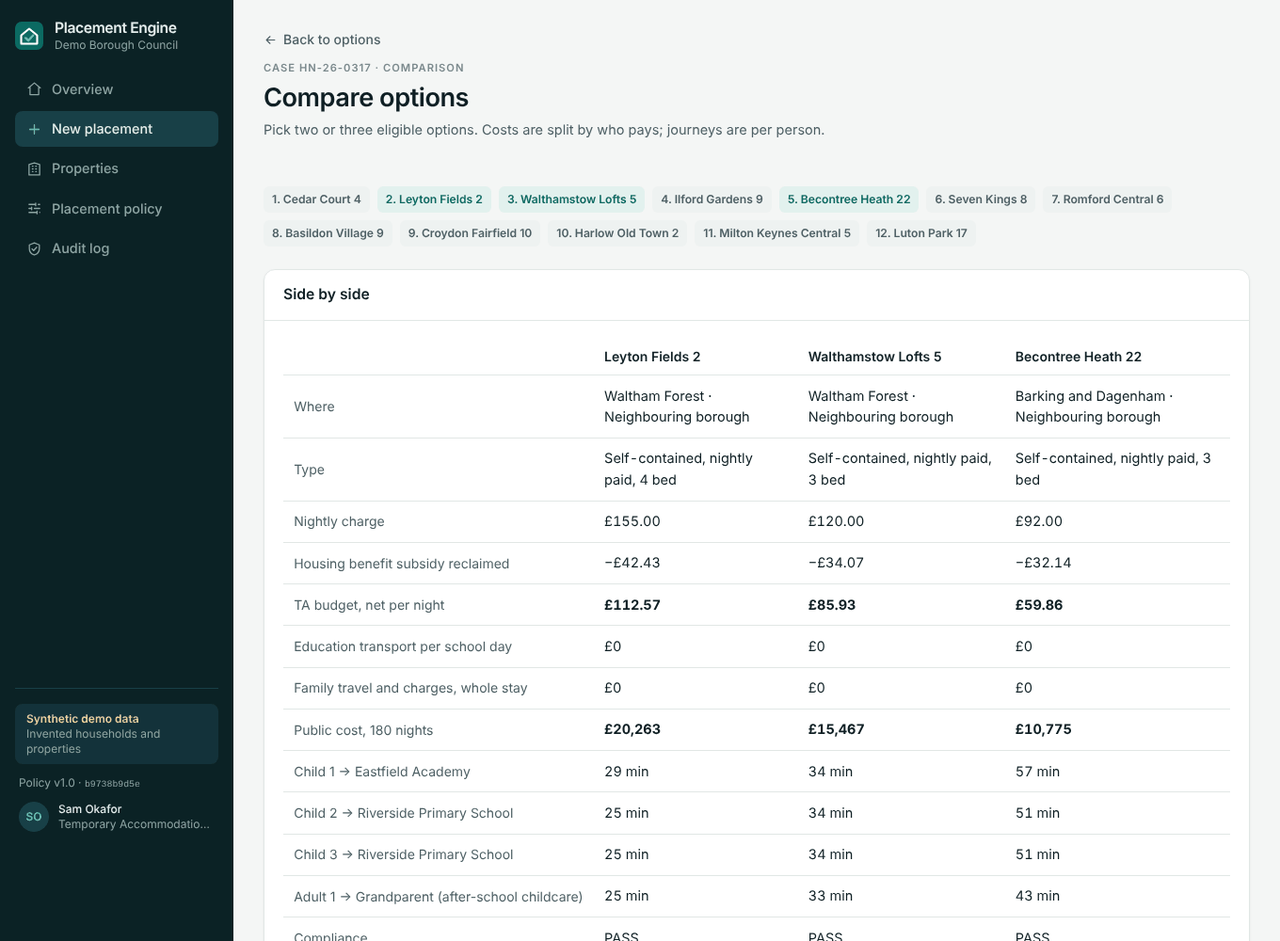
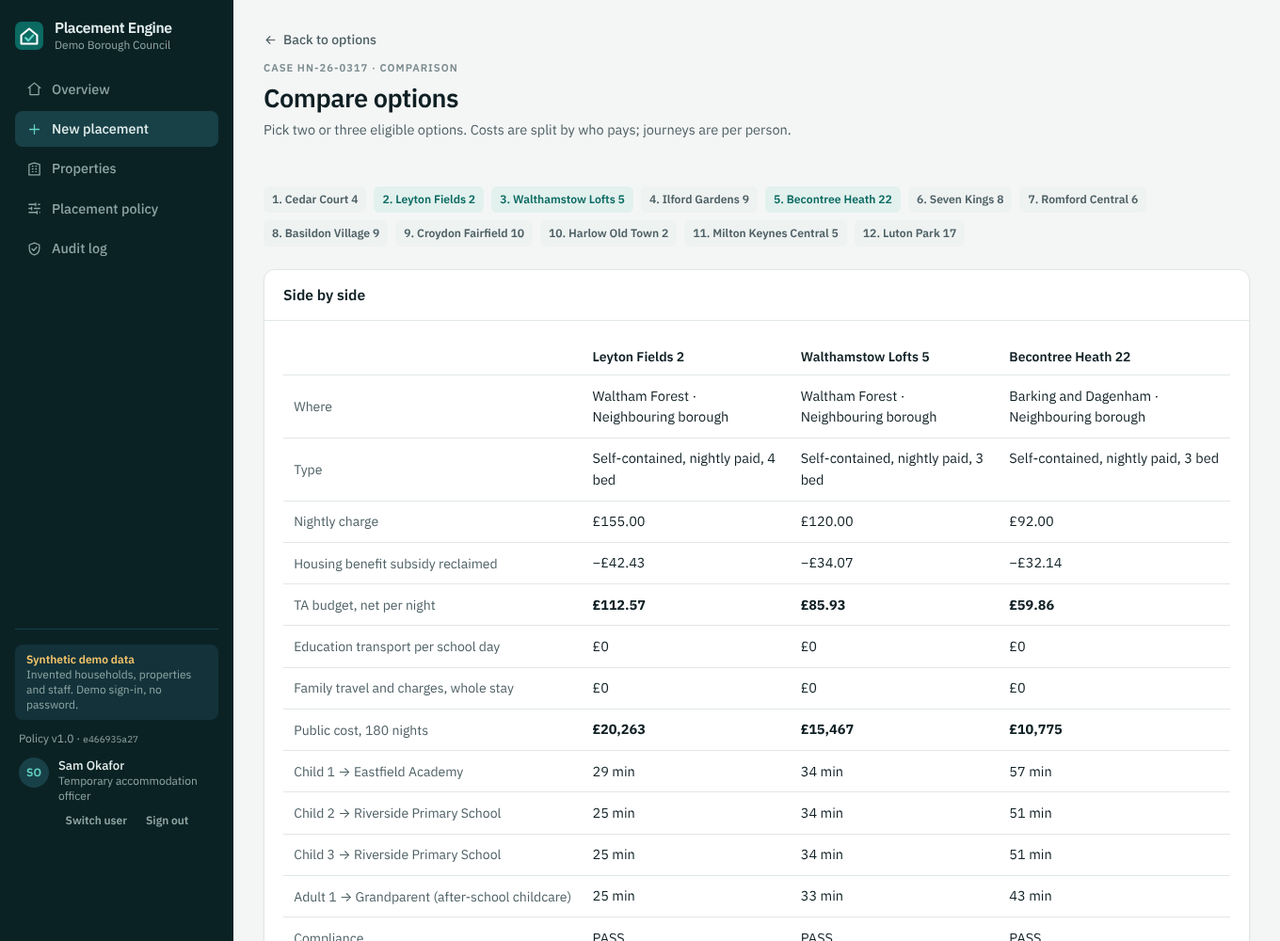
Docs for phase 1: validation, access needs, consent, sign-in and permissions, schema 2
HOW-IT-DECIDES gains the household checks, access needs per person, consent,
the chain union and the permission table. ARCHITECTURE describes the new
modules, the command layer and how old data is kept. PILOT-READINESS adds real
sign-in, server-side enforcement, the staff directory and the legal checks for
consent and access questions. README and its screenshots show the new flows.

The spec records the phase 1 choices it left open: session per tab, demo-only
permissions, the household access panel, consent only when a placement is
made, the 7-day consent follow-up, and the new storage key.

Claude-Session: https://claude.ai/code/session_01HVuUZyqdwB3CpnaYjuLiQZ

diff --git a/README.md b/README.md
@@ -12,7 +12,7 @@ The officer accepts the recommendation or chooses another option with a reason. 
 
 ![Placement options for a family of four: recommendation, map and cost against suitability](docs/images/results.png)
 
-> **Status: MVP on synthetic data.** Every household, property, supplier and place is invented. Journey times are a labelled estimate and the housing benefit subsidy figures are illustrative. A solicitor should check the legal references before any pilot ([pilot readiness](docs/PILOT-READINESS.md)).
+> **Status: MVP on synthetic data.** Every household, property, supplier, place and member of staff is invented. Sign-in is a labelled demo with no password: you choose who to be. Journey times are a labelled estimate and the housing benefit subsidy figures are illustrative. A solicitor should check the legal references before any pilot ([pilot readiness](docs/PILOT-READINESS.md)).
 
 ## Why
 
@@ -29,16 +29,18 @@ Since 5 February 2026, the automated-decision rules also require meaningful huma
 
 ## What it does
 
-|                                    |                                                                                                                                                                                                                               |
-| ---------------------------------- | ----------------------------------------------------------------------------------------------------------------------------------------------------------------------------------------------------------------------------- |
-| **Checks every property**          | Availability, size, access, safety certificates, approved supplier, safeguarding zones, affordability, and the rule against shared rooms for families. Each check cites its legal basis.                                      |
-| **Ranks what passes**              | A suitability score from factors the council weights: school, work, treatment and care journeys; location; facilities; condition; whether the property covers the whole stay. Each factor maps to the 2012 Suitability Order. |
-| **Shows the real cost**            | The nightly charge minus the housing benefit subsidy the council can reclaim, plus any cost to other budgets (education transport) and to the family. Cost sits beside suitability, never inside it.                          |
-| **Explains itself**                | Plain-English reasons, a map, cost against suitability, side-by-side comparison, and a check that the pick still holds if the policy weights move 20% either way. No AI computes or invents anything.                         |
-| **Records the officer's decision** | Accept, or override with a reason code and the officer's own words. What they reviewed first is logged.                                                                                                                       |
-| **Seals the evidence**             | Canonical JSON snapshot in a SHA-256 hash chain; editing any past record breaks the chain. Audit pack as a page and a PDF.                                                                                                    |
-| **Starts the statutory clocks**    | s208 notice to the receiving council, the 6-week limit for families in shared accommodation, s213AA school/GP notification, s202 review window, with draft notices.                                                           |
-| **Keeps policy versioned**         | The council's weights and rules are published as signed, hashed versions with an equality note; every decision records the version it used.                                                                                   |
+|                                    |                                                                                                                                                                                                                                         |
+| ---------------------------------- | --------------------------------------------------------------------------------------------------------------------------------------------------------------------------------------------------------------------------------------- |
+| **Checks every property**          | Availability, size, access, safety certificates, approved supplier, safeguarding zones, affordability, and the rule against shared rooms for families. Each check cites its legal basis.                                                |
+| **Ranks what passes**              | A suitability score from factors the council weights: school, work, treatment and care journeys; location; facilities; condition; whether the property covers the whole stay. Each factor maps to the 2012 Suitability Order.           |
+| **Shows the real cost**            | The nightly charge minus the housing benefit subsidy the council can reclaim, plus any cost to other budgets (education transport) and to the family. Cost sits beside suitability, never inside it.                                    |
+| **Explains itself**                | Plain-English reasons, a map, cost against suitability, side-by-side comparison, and a check that the pick still holds if the policy weights move 20% either way. No AI computes or invents anything.                                   |
+| **Checks what is entered**         | Missing or impossible details stop the search with a summary that links to each field. A wheelchair user or a disability opens explicit access questions per person; every "yes" is checked, by name.                                   |
+| **Records the officer's decision** | Accept, or override with a reason code and the officer's own words. The signed-in officer is recorded, never a typed name. Consent to notify school and health services is recorded, never assumed. What they reviewed first is logged. |
+| **Seals the evidence**             | Canonical JSON snapshot in a SHA-256 hash chain; editing any past record breaks the chain. Later facts (a consent answer) are new records. Audit pack as a page and a PDF.                                                              |
+| **Knows who may do what**          | Officers search and decide; managers will approve exceptions; only the head of service (or admin) publishes policy; the auditor reads everything and changes nothing. Enforced in the store, not only by hiding buttons.                |
+| **Starts the statutory clocks**    | s208 notice to the receiving council, the 6-week limit for families in shared accommodation, s213AA school/GP notification, s202 review window, with draft notices.                                                                     |
+| **Keeps policy versioned**         | The council's weights and rules are published as signed, hashed versions with an equality note; every decision records the version it used.                                                                                             |
 
 <table>
   <tr>
@@ -49,6 +51,14 @@ Since 5 February 2026, the automated-decision rules also require meaningful huma
     <td><img src="docs/images/audit-pack.png" alt="Sealed audit pack" /></td>
     <td><img src="docs/images/results-dark.png" alt="Results in dark mode" /></td>
   </tr>
+  <tr>
+    <td><img src="docs/images/access-needs.png" alt="Access needs asked per person, with an error summary linking to each unanswered question" /></td>
+    <td><img src="docs/images/consent.png" alt="Decision record with consent recorded later as a new sealed record" /></td>
+  </tr>
+  <tr>
+    <td><img src="docs/images/sign-in.png" alt="Demo sign-in with synthetic staff and a plain warning that it is not security" /></td>
+    <td><img src="docs/images/compare.png" alt="Side-by-side comparison of options" /></td>
+  </tr>
 </table>
 
 ## Try it
@@ -58,28 +68,30 @@ npm install
 npm run dev            # http://localhost:5173
 ```
 
-Start from one of the five example households on the overview:
+Sign in as one of the synthetic staff (an officer to search and decide; switch to the manager or the auditor from the rail to see what changes), then start from one of the five example households on the overview:
 
-| Example                                         | What it shows                                                                                                         |
-| ----------------------------------------------- | --------------------------------------------------------------------------------------------------------------------- |
-| Parent and three children, needed tonight       | The concept brief's example. The cheaper property 51 minutes from school loses on suitability.                        |
-| Single adult on dialysis, working               | Priority flags raise the treatment and work weights; the cost tie-break picks between two near-equal options.         |
-| Wheelchair user and two children, fleeing abuse | Hard access rules, an assistance dog and a safeguarding exclusion zone. Only two properties pass.                     |
-| Two adults and five children, exam year         | Scarce four-bedroom supply. The cheap Luton unit would add about £33k of special-school taxi to the education budget. |
-| Pregnant, alone, out of hours                   | Nothing self-contained tonight: shared rooms only as a last resort, with the six-week clock and remedy risk.          |
+| Example                                         | What it shows                                                                                                          |
+| ----------------------------------------------- | ---------------------------------------------------------------------------------------------------------------------- |
+| Parent and three children, needed tonight       | The concept brief's example. The cheaper property 51 minutes from school loses on suitability.                         |
+| Single adult on dialysis, working               | Priority flags raise the treatment and work weights; the cost tie-break picks between two near-equal options.          |
+| Wheelchair user and two children, fleeing abuse | Access answers for the wheelchair user, an assistance dog and a safeguarding exclusion zone. Only two properties pass. |
+| Two adults and five children, exam year         | Scarce four-bedroom supply. The cheap Luton unit would add about £33k of special-school taxi to the education budget.  |
+| Pregnant, alone, out of hours                   | Nothing self-contained tonight: shared rooms only as a last resort, with the six-week clock and remedy risk.           |
 
-Then record a decision, open the audit pack, and try **Audit log → Edit record #1 behind the system's back** to see tamper detection.
+Then record a decision (with the parent's consent answer), open the audit pack, and try **Audit log → Edit record #1 behind the system's back** to see tamper detection. To see the checks, open **New placement** and press **Find placements** on the blank form, or tick **Wheelchair user** on someone.
+
+Data saved by the earlier version in this browser is carried over: its sealed records still verify and show as recorded under the earlier version.
 
 ## Development
 
-| Command               | Does                                                                                                              |
-| --------------------- | ----------------------------------------------------------------------------------------------------------------- |
-| `npm run dev`         | Local dev server                                                                                                  |
-| `npm test`            | Engine, scenario, audit and CSV tests (Vitest)                                                                    |
-| `npm run check`       | Typecheck + tests + formatting (what CI runs)                                                                     |
-| `npm run build`       | Production build (`dist/`)                                                                                        |
-| `npm run build:demo`  | One self-contained HTML file (`dist-demo/index.html`) for a shareable click-through                               |
-| `npm run walkthrough` | Clicks through every screen in headless Chromium and saves screenshots to `screenshots/` (run `build:demo` first) |
+| Command               | Does                                                                                                                                                                 |
+| --------------------- | -------------------------------------------------------------------------------------------------------------------------------------------------------------------- |
+| `npm run dev`         | Local dev server                                                                                                                                                     |
+| `npm test`            | Engine, scenario, validation, access, permission, consent, migration, store, audit, PDF and CSV tests (Vitest)                                                       |
+| `npm run check`       | Typecheck + tests + formatting (what CI runs)                                                                                                                        |
+| `npm run build`       | Production build (`dist/`)                                                                                                                                           |
+| `npm run build:demo`  | One self-contained HTML file (`dist-demo/index.html`) for a shareable click-through                                                                                  |
+| `npm run walkthrough` | Signs in and clicks through every flow in headless Chromium (light, dark, phone), runs named checks and saves screenshots to `screenshots/` (run `build:demo` first) |
 
 Stack: React 19, TypeScript, Vite, Tailwind CSS 4, Vitest, `@react-pdf/renderer`. Node 22.
 

diff --git a/docs/HOW-IT-DECIDES.md b/docs/HOW-IT-DECIDES.md
@@ -2,6 +2,29 @@
 
 Everything here is deterministic, versioned and testable. The same household, inventory and policy version always give the same answer. Numbers are illustrative defaults for the demo council, _Demo Borough_. A real council sets its own values in the placement policy screen, and each change is signed off with an equality note.
 
+## 0. Checks on the household details
+
+Before any property is looked at, `validateHousehold()` (`src/engine/validate.ts`) checks what was entered. The search refuses to run while there is an error, whether the household came from the form or any other route, so an import cannot skip it. Warnings never block; they are shown and frozen into the search result.
+
+**Errors** (the search will not run):
+
+- case reference blank, or over 40 characters after trimming;
+- nobody in the household, or nobody aged 16 or over;
+- an age that is not a whole number from 0 to 120; an "adult" under 16; a "child" of 18 or over;
+- a partner link that is not mutual, or points to someone not in the household;
+- date needed missing, not a real date, or in the past; expected stay not a whole number from 1 to 730 nights;
+- a place with no person or an unknown person, an invalid arrive-by time, or days a week outside 1 to 7;
+- what the household can pay is negative or not a number; an exclusion zone radius outside 0.1 to 50 km;
+- an access question left unanswered (0.1).
+
+**Warnings** (shown, frozen with the search, never blocking): a school set against an adult; the case already has an open search or a placement (with a link to it); equipment or a carer that could change the bedroom need; a wheelchair user answered "no" to a wheelchair-accessible home.
+
+### 0.1 Access needs follow the person
+
+Marking a person as a wheelchair user opens six yes/no questions for that person; the household's disability flag opens them for the household when nobody is marked as a wheelchair user. Nothing is pre-selected and an unanswered question is an error. The questions: wheelchair-accessible home, step-free access, ground floor or lift, adapted bathroom, an assistance dog, and equipment or a carer that could change the bedroom need.
+
+The property checks use the **union of every "yes"**, and each failed check names whose need it is ("Adult 1 needs step-free access: this property does not have it"). An assistance dog drives the pets check. Equipment or a carer adds a warning only: the bedroom count does not change without a tested rule. Each answer records which officer gave it and when. Household-level needs recorded under the earlier version are still applied, never dropped.
+
 ## 1. Hard gates
 
 Every property is checked. A failed **block** removes it, with a reason the officer and the audit pack can see. A **warn** keeps it in but flags something to check.
@@ -13,10 +36,10 @@ Every property is checked. A failed **block** removes it, with a reason the offi
 | Stale availability _(warn)_              | Last confirmed more than 72 hours ago                                                                                                                            | Council policy                                                    |
 | Too few bedrooms                         | Below the LHA size criteria (couples share; under-10s share; same-sex under-16s share; 16+ own room)                                                             | HA 1996 s210; HA 1985 Part 10                                     |
 | Too large                                | More than 1 bedroom above need (keeps large homes for large families)                                                                                            | Council allocation policy                                         |
-| Accessible unit reserved                 | Adapted units go only to households who need the adaptations                                                                                                     | Council allocation policy                                         |
+| Accessible unit reserved                 | Adapted units go only to households whose access answers need a wheelchair-accessible home or an adapted bathroom                                                | Council allocation policy                                         |
 | Capacity                                 | Sleeps at least the household size                                                                                                                               | HA 1996 s210                                                      |
-| Access must-haves                        | Step-free, wheelchair accessible, ground floor or lift, adapted bathroom                                                                                         | Equality Act 2010; Code ch.17                                     |
-| Pets                                     | Pet or assistance dog accommodated, where required                                                                                                               | Council policy                                                    |
+| Access must-haves                        | Every "yes" access answer (0.1): step-free, wheelchair accessible, ground floor or lift, adapted bathroom. The message names whose need fails                    | Equality Act 2010; Code ch.17                                     |
+| Pets                                     | An assistance dog (from the access answers, named) or a pet accommodated, where required                                                                         | Council policy                                                    |
 | Certificates                             | Gas (if gas), EICR, EPC band A–E, smoke and CO alarms, fire risk assessment (HMO / shared), HMO licence, council inspection; valid on the date needed            | 2012 Suitability Order art.3 and the regulations behind each item |
 | Certificate expires during stay _(warn)_ |                                                                                                                                                                  | as above                                                          |
 | Shared facilities for a family           | B&B or shared annex for a household with children or a pregnant member. Admitted **only if nothing else passes**, then flagged "last resort" with a 6-week clock | 2003 B&B Suitability Order                                        |
@@ -70,22 +93,48 @@ Cost is shown **beside** suitability, never folded into the score.
 
 ## 7. The officer's decision
 
+The officer signs in first. The record takes the decider's name and role from the signed-in session, never from a form field. In this demo the sign-in is a labelled demo sign-in with no password; a pilot uses the council's single sign-on with MFA ([pilot readiness](PILOT-READINESS.md)).
+
 The officer must actively choose:
 
 - **Accept**, with an optional note.
 - **Choose another option**, with a reason code and their own words (at least 20 characters).
 - **No suitable option**, with the search steps taken.
 
+Where a placement is made for a household with children, they also record **consent** to tell the children's school, GP and health visitor (s213AA): given or refused (by which adult, and how: in person, by phone or in writing), or not asked yet (with the reason). Nothing is pre-selected. Not asked adds a follow-up deadline 7 days after the start, inside the 14-day notice window; refused means no notice is drafted, and the record says so. A later answer is recorded as a new sealed record that points to the decision; the decision itself is never edited.
+
+These rules live in `src/engine/decision.ts` and the store checks them before sealing, as it checks the permissions in section 9.
+
 They confirm they reviewed the full list. The record also logs when the list was opened, which property details were opened, and whether the comparison was used. This is the evidence of meaningful human involvement that UK GDPR Art.22A–D (from 5 Feb 2026) expects when health or disability data is used.
 
 ## 8. The seal
 
-At decision time the engine freezes a snapshot: the search, every candidate with every check, the policy version and hash, the properties as held, the decision, and the statutory clocks. It is serialised as canonical JSON (sorted keys) and hashed with SHA-256 together with the previous record's hash. Editing any past record breaks its hash and every hash after it. The audit log can check the whole chain, and has a tamper demonstration.
+At decision time the engine freezes a snapshot (`placement-decision/2`; records sealed by the MVP are `placement-decision/1` and still verify and render): the search, every candidate with every check, the policy version and hash, the properties as held, the decision, and the statutory clocks. It is serialised as canonical JSON (sorted keys) and hashed with SHA-256 together with the previous record's hash. Editing any past record breaks its hash and every hash after it. The audit log can check the whole chain, and has a tamper demonstration.
+
+Later facts about a decision are their own records in the same chain (`placement-event/1`), each pointing to the decision's sequence number and hash. Phase 1 writes consent updates; placements, approvals and task completions follow in phase 2.
 
 Statutory clocks set from the start date:
 
 - s208 notice to the receiving council (14 days).
 - The 6-week limit for families in shared accommodation.
-- s213AA notification to school, GP and health visitor (14 days, with consent).
+- s213AA notification to school, GP and health visitor (14 days, with consent; none if consent was refused).
+- Ask for consent (7 days), when it was not asked at placement.
 - The household's 21-day window to request a review.
 - The date availability ends, if that is within the stay.
+
+## 9. Who may do what
+
+`src/engine/permissions.ts` holds the rules as a role × action table, tested in full. The store checks them before every change, so a hidden button is never the only safeguard.
+
+|                                          | TA / out-of-hours officer | Team manager | Head of service | Supply and compliance | Auditor | Admin |
+| ---------------------------------------- | :-----------------------: | :----------: | :-------------: | :-------------------: | :-----: | :---: |
+| Run a search, record a decision, consent |            Yes            |     Yes      |       Yes       |                       |         |       |
+| Approve an exception (phase 2)           |                           |     Yes      |       Yes       |                       |         |       |
+| Publish placement policy                 |                           |              |       Yes       |                       |         |  Yes  |
+| Import or edit properties                |                           |              |                 |          Yes          |         |  Yes  |
+| Confirm availability                     |            Yes            |     Yes      |       Yes       |          Yes          |         |  Yes  |
+| View the audit log, export records       |            Yes            |     Yes      |       Yes       |          Yes          |   Yes   |  Yes  |
+| Run the tamper demonstration             |            Yes            |     Yes      |       Yes       |          Yes          |         |  Yes  |
+| Reset the demo data                      |                           |              |                 |                       |         |  Yes  |
+
+Nobody approves their own decision. The auditor reads everything and changes nothing.

diff --git a/docs/ARCHITECTURE.md b/docs/ARCHITECTURE.md
@@ -5,7 +5,11 @@ A single-page React app (Vite, TypeScript, Tailwind v4). The engine is plain Typ
 ```
 src/
   engine/          pure decision logic (no I/O)
-    types.ts         domain model: Household, Property, Ruleset, Candidate, SearchResult, Decision
+    types.ts         domain model: Household, Property, Ruleset, Candidate, SearchResult, Decision, staff and actors
+    validate.ts      validateHousehold(): errors and warnings; runSearch refuses a household with errors
+    access.ts        access needs per person: required questions, effective needs (union of "yes"), labels
+    permissions.ts   can(user, action, context): the role × action matrix; assertCan() throws PermissionError
+    decision.ts      decision and consent rules (validateDecision, validateConsent, the consent record)
     bedrooms.ts      LHA size criteria (bedroom need), family test
     gates.ts         hard gates with legal basis; required certificates
     scoring.ts       applicable factors, effective weights, value functions, location tiers
@@ -20,10 +24,16 @@ src/
     canonical.ts     canonical JSON
     hash.ts          SHA-256 (Web Crypto)
     chain.ts         append-only hash chain + verification
-    snapshot.ts      what a decision freezes
+    snapshot.ts      chain payloads: decision snapshots (v1, v2) and events
+    records.ts       version-aware read views shared by every screen (decider, consent now, deadlines now)
     ruleset.ts       rule-set hashing
-  data/            synthetic demo data + CSV import/export
-  store/           React context: app data (localStorage), in-page router
+  auth/            AuthProvider interface, DemoAuth (labelled demo sign-in), session context
+  data/            synthetic demo data (households, properties, places, staff) + CSV import/export
+  store/
+    data.ts          AppData (schema 2), seed
+    migrate.ts       schema 1 → 2 on load
+    commands.ts      every change: takes the actor from the session, checks permissions, returns new data
+    app.tsx          React context wiring commands to state and localStorage; nav.tsx in-page router
   ui/              screens and shared components
   pdf/             audit pack PDF (@react-pdf/renderer, lazy-loaded)
 tests/             Vitest: engine units, five end-to-end scenarios, audit chain, CSV
@@ -32,22 +42,31 @@ scripts/           headless-browser walkthrough with screenshots
 
 ## Data flow
 
-1. `store/app.tsx` loads demo data from localStorage, or seeds it: one hashed rule-set, 26 properties, 6 suppliers.
-2. **New placement** builds a `Household` and calls `search()`. That calls `runSearch()` with the active rule-set and a travel provider, then stores the `SearchResult`.
-3. Screens read the stored result. Opening the results, property details and the comparison updates a review log kept in memory.
-4. `decide()` builds a `DecisionSnapshot`, computes statutory clocks, appends it to the hash chain and stores it.
-5. The audit pack renders from the snapshot only, never from live data. The PDF does the same.
+1. Nothing renders until someone signs in. `auth/` holds the `AuthProvider` interface; today's `DemoAuth` lets you pick a synthetic staff member, with no password, for the length of the browser tab. A pilot adds a single sign-on implementation behind the same interface.
+2. `store/app.tsx` loads demo data from localStorage (key `placement-engine/v2`), migrating schema-1 data from the MVP's key if that is all there is, or seeds it: one hashed rule-set, 26 properties, 6 suppliers.
+3. Every change goes through `store/commands.ts`. Each command takes the actor from the session, calls `assertCan()` and the engine's validation, and returns new data. The React layer only reads the clock and the session at the edge and saves the result.
+4. **New placement** builds a `Household`; `cmdSearch` calls `runSearch()`, which validates it first and refuses on errors. The `SearchResult` keeps the warnings and who ran it.
+5. Screens read the stored result. Opening the results, property details and the comparison updates a review log kept in memory.
+6. `cmdDecide` checks the decision and consent rules, builds a `placement-decision/2` snapshot with the signed-in actor and the consent record, computes statutory clocks, appends it to the hash chain and stores it. A later consent answer is a `placement-event/1` record pointing to the decision.
+7. The audit pack renders from the sealed records only, never from live data, through `audit/records.ts` so schema-1 and V2 records share one code path. The PDF does the same.
+
+## The chain and old data
+
+A chain record is `{ seq, prevHash, rowHash, snapshot }` with `rowHash = sha256(seq|prevHash|canonical(snapshot))`, unchanged since the MVP. The payload under `snapshot` is now a union: `placement-decision/1` (sealed by the MVP, read only), `placement-decision/2`, or `placement-event/1` (consent updates now; placement transitions, approvals and task completions are typed for phase 2). The key keeps its MVP name so old records and exported JSON read the same way.
+
+Migration (`store/migrate.ts`) never touches a sealed record; schema-1 records verify as they are. Schema 2 is written under a new key and the schema-1 copy is left in place, so returning to the earlier deployment loses nothing. `tests/fixtures/schema1-localstorage.json` was produced by the MVP code and is the regression fixture.
 
 ## Moving to a pilot
 
-| MVP                      | Pilot                                                                                                                                                      |
-| ------------------------ | ---------------------------------------------------------------------------------------------------------------------------------------------------------- |
-| localStorage per browser | Supabase (London, eu-west-2): tables per entity, row-level security per council, MFA                                                                       |
-| Chain in JSON            | `decision_snapshot` insert-only table; trigger blocks UPDATE/DELETE; `chain_head` updated in the same transaction; nightly head hash to write-once storage |
-| `estimate-v1`            | TravelTime `time-filter/fast` with written storage rights, or self-hosted r5 on BODS + rail GTFS, behind the same `TravelProvider`                         |
-| Synthetic places         | GIAS schools, NHS ODS GP and hospital codes, postcodes.io / OS Open UPRN                                                                                   |
-| CSV inventory            | Import from the council's Adam / DPS export and leased-stock list (council-sponsored API access)                                                           |
-| Typed household          | Pre-fill from the case system (Jigsaw, Locata, NEC) using H-CLIC code lists                                                                                |
-| Illustrative LHA table   | DWP January 2011 LHA rates + current subsidy caps, versioned in the rule-set                                                                               |
+| MVP                        | Pilot                                                                                                                                                      |
+| -------------------------- | ---------------------------------------------------------------------------------------------------------------------------------------------------------- |
+| localStorage per browser   | Supabase (London, eu-west-2): tables per entity, row-level security per council, MFA                                                                       |
+| Demo sign-in (no password) | Council single sign-on with MFA behind `AuthProvider`; the permission matrix enforced again on the server                                                  |
+| Chain in JSON              | `decision_snapshot` insert-only table; trigger blocks UPDATE/DELETE; `chain_head` updated in the same transaction; nightly head hash to write-once storage |
+| `estimate-v1`              | TravelTime `time-filter/fast` with written storage rights, or self-hosted r5 on BODS + rail GTFS, behind the same `TravelProvider`                         |
+| Synthetic places           | GIAS schools, NHS ODS GP and hospital codes, postcodes.io / OS Open UPRN                                                                                   |
+| CSV inventory              | Import from the council's Adam / DPS export and leased-stock list (council-sponsored API access)                                                           |
+| Typed household            | Pre-fill from the case system (Jigsaw, Locata, NEC) using H-CLIC code lists                                                                                |
+| Illustrative LHA table     | DWP January 2011 LHA rates + current subsidy caps, versioned in the rule-set                                                                               |
 
 The engine API doesn't change: `runSearch(input) → SearchResult`.

diff --git a/docs/specs/v2-officer-feedback.md b/docs/specs/v2-officer-feedback.md
@@ -39,10 +39,11 @@ Read first: `CLAUDE.md`, `README.md`, `docs/HOW-IT-DECIDES.md`, `docs/ARCHITECTU
 - Seed a synthetic staff directory: two TA officers, an out-of-hours officer, a team manager, a head of service (policy owner), a supply/compliance officer, an auditor (read-only) and an admin. Names are invented and labelled synthetic.
 - `src/engine/permissions.ts`: `can(user, action, context?)`, pure and exhaustively tested as a role × action matrix. Actions cover at least: run a search, record a decision, approve an exception, publish policy, import or edit properties, confirm availability, act on a placement, complete or reassign a task, view the audit log, run the tamper demo, reset demo data, import a household, export records.
   - Officers search and decide. Managers and the head of service approve exceptions. Only the head of service (and admin) publishes policy. The auditor reads everything and changes nothing. Nobody approves their own decision.
-- An `AuthProvider` interface with one implementation today, `DemoAuth`: a sign-in screen where you choose a demo user. The screen says plainly that this is a demo sign-in with no password and that real sign-in (council single sign-on with MFA) comes with the hosted pilot. The session persists per browser tab group and there is a sign-out.
+- An `AuthProvider` interface with one implementation today, `DemoAuth`: a sign-in screen where you choose a demo user. The screen says plainly that this is a demo sign-in with no password and that real sign-in (council single sign-on with MFA) comes with the hosted pilot. The session lasts for the browser tab (sessionStorage) and there is a sign-out.
 - The app is unusable until signed in. The rail shows the signed-in person and role, with a "Switch user" control so a demo can show officer and manager views.
 - Every store action takes its actor from the session, never from a form field. Remove the free-text name and role inputs from the decision screen and from "publish policy". Decisions, approvals, task completions and policy versions record `{ userId, name, role }` of the signed-in person.
 - The store rejects any action the actor may not take (throw a typed `PermissionError`; the UI shows a plain message). Hide or disable controls the user cannot use, with a short reason on disabled ones.
+- Built: demo-only actions are also in the matrix. Resetting demo data is admin only; the tamper demonstration is open to every role except the auditor. Admin runs the system and the policy file but does not search, decide or approve.
 
 ### 1.2 Form validation (point 1)
 
@@ -56,7 +57,7 @@ Read first: `CLAUDE.md`, `README.md`, `docs/HOW-IT-DECIDES.md`, `docs/ARCHITECTU
 
 Today `Person.wheelchairUser` changes nothing: only the separate household tick-boxes reach the gates. Fix the model so a declared need cannot be silently ignored.
 
-- When any member is marked as a wheelchair user, or the household has the disability flag, the form opens an **access needs** panel for that person (or the household) with one explicit yes/no answer per need: wheelchair accessible, step-free access, ground floor or lift, adapted bathroom. No answer is pre-selected. Unanswered questions are a validation error.
+- When any member is marked as a wheelchair user, or the household has the disability flag, the form opens an **access needs** panel for that person (or, when the flag is set and nobody is marked as a wheelchair user, for the household) with one explicit yes/no answer per need: wheelchair accessible, step-free access, ground floor or lift, adapted bathroom. No answer is pre-selected. Unanswered questions are a validation error.
 - Store the answers per person (who needs what, answered by which officer, when). The household's effective access needs are the union of all "yes" answers; the gates in `src/engine/gates.ts` consume that union, and each failing gate names whose need it is by pseudonymous label ("Adult 1 needs step-free access").
 - The "reserved accessible unit" rule keys off the effective needs.
 - Also ask, when a wheelchair user or the disability flag is present: is an assistance dog part of the household (drives the pets gate), and is there equipment or a carer that changes the bedroom need (a yes adds a note and a warning for now; do not change the bedroom calculation without a tested rule).
@@ -65,14 +66,14 @@ Today `Person.wheelchairUser` changes nothing: only the separate household tick-
 
 ### 1.4 Consent is recorded, never assumed (point 4)
 
-- Replace the pre-ticked boolean with a consent record: `status: 'given' | 'refused' | 'not_asked'`, `givenBy` (which adult in the household, by label), `method` (in person, phone, written), `recordedBy` (signed-in officer), `recordedAt`, and a note. No default. Where the household includes children the officer must choose before recording a decision.
-- `not_asked` needs a reason and creates a follow-up (a task in phase 2; until then a clock entry) inside the s213AA window. `refused` suppresses the notification draft and says so.
+- Replace the pre-ticked boolean with a consent record: `status: 'given' | 'refused' | 'not_asked'`, `givenBy` (which adult in the household, by label), `method` (in person, phone, written), `recordedBy` (signed-in officer), `recordedAt`, and a note. No default. Where the household includes children the officer must choose before recording a decision that places them. (A "no suitable option" decision places nobody, so s213AA does not arise and consent is not asked.)
+- `not_asked` needs a reason and creates a follow-up (a task in phase 2; until then a clock entry, 7 days after the start) inside the s213AA window. `refused` suppresses the notification draft and says so.
 - Consent can be updated later as a new chain event (who, when, what changed); the original record is not edited.
 - Schema-1 snapshots with the old boolean still render ("consent recorded as yes/no under the earlier version").
 
 ### Phase 1 also
 
-- Storage schema 2 and migration; chain payload union and `placement-decision/2`.
+- Storage schema 2 and migration; chain payload union and `placement-decision/2`. Built: schema 2 is stored under a new key (`placement-engine/v2`) and the schema-1 copy is left in place, so a browser that goes back to the earlier deployment loses nothing. The chain record keeps the key `snapshot` for its payload.
 - Update the five example households, the walkthrough, `docs/HOW-IT-DECIDES.md` and the README screenshots list.
 
 ## Phase 2: the booking and what follows it (points 3, 5, 6b, 7, 9)

diff --git a/docs/PILOT-READINESS.md b/docs/PILOT-READINESS.md
@@ -6,6 +6,8 @@ The MVP is safe to demo because nothing in it is real. This list is what has to 
 
 - [ ] Wording and paragraph references for every gate and factor (`src/engine/gates.ts`, `src/data/ruleset.ts`): 2012 Suitability Order art.2–3, 2003 B&B Order, 1996 affordability Order, Code of Guidance ch.17, s208, s210, s213AA, s202.
 - [ ] Decision support vs automated decision under UK GDPR Art.22A–D (in force 5 Feb 2026): confirm the review log and the override flow count as meaningful human involvement.
+- [ ] s213AA consent: confirm what counts as consent, who in the household may give it, and the 7-day follow-up the product sets when it was not asked.
+- [ ] Access needs: confirm the six questions, and the rule that only a "yes" adds a check, against the Equality Act duty and Code ch.17.
 - [ ] Whether the cost tie-break and the location tiers fit the council's published placement policy (_Nzolameso_, _Abdikadir_).
 - [ ] Procurement route for the pilot (under £30k inc VAT, no notice needed; direct award under £207,720 inc VAT).
 
@@ -28,7 +30,9 @@ The MVP is safe to demo because nothing in it is real. This list is what has to 
 
 - [ ] Cyber Essentials certificate (Book-flo's is in progress).
 - [ ] UK hosting: Supabase London; Vercel functions pinned to London.
-- [ ] MFA, role-based access (officer, manager, admin, auditor), tested row-level isolation.
+- [ ] Real sign-in: council single sign-on with MFA as an `AuthProvider` implementation. The demo sign-in has no password and proves nothing about identity; it only shows the flow.
+- [ ] Role-based access enforced on the server as well as in the browser store (built in the browser: the role × action matrix in `src/engine/permissions.ts`, checked before every change), with tested row-level isolation.
+- [ ] Staff directory from the council (the demo's eight staff are synthetic).
 - [ ] Independent web app / API penetration test, with fixes (about £4–10k).
 - [ ] Incident response plan; cyber and professional indemnity insurance.
 
@@ -41,3 +45,5 @@ The MVP is safe to demo because nothing in it is real. This list is what has to 
 - [ ] Server-side storage and the insert-only snapshot table (see ARCHITECTURE.md).
 - [ ] Accessibility statement (WCAG 2.2 AA) and a screen-reader pass.
 - [ ] Out-of-hours flow on a phone.
+- [ ] Consent follow-ups as tasks with an owner and reminders (phase 2); today they are a deadline on the record.
+- [ ] A rule for equipment or a carer that changes the bedroom need (today a warning only).
